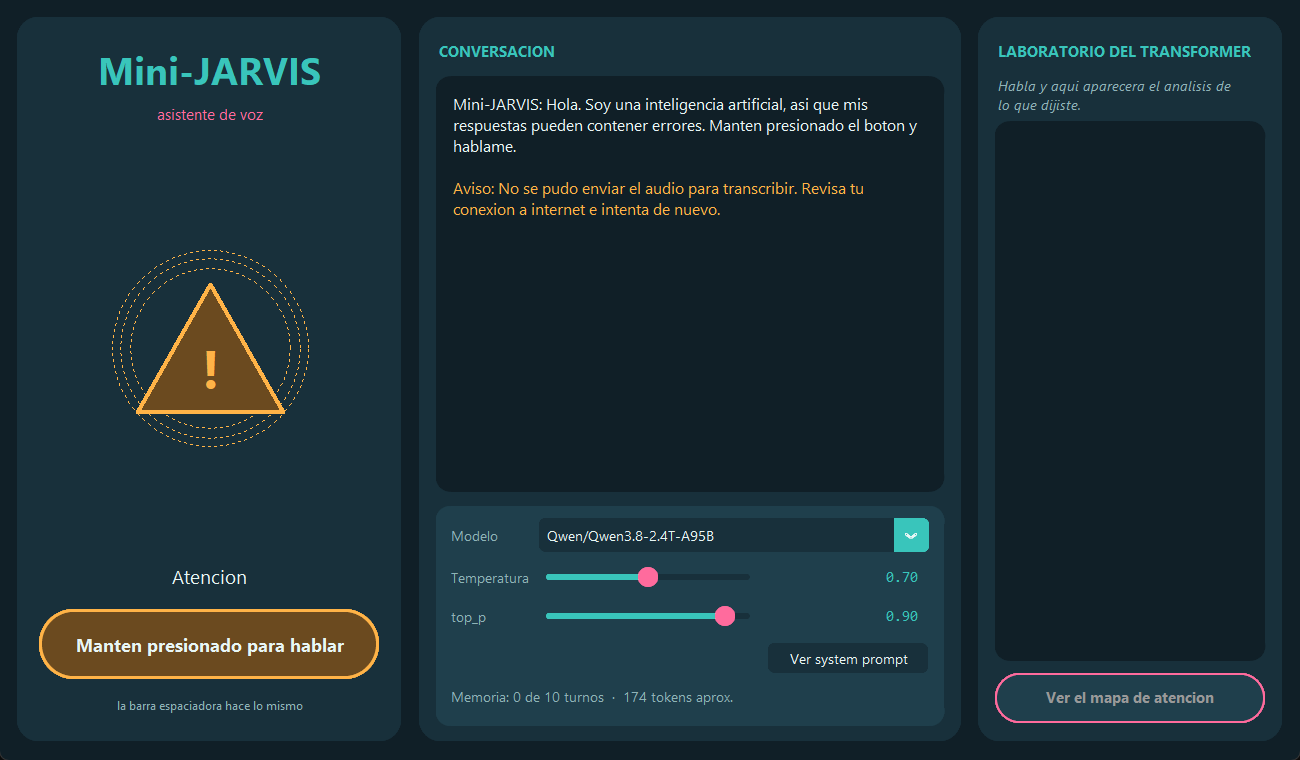
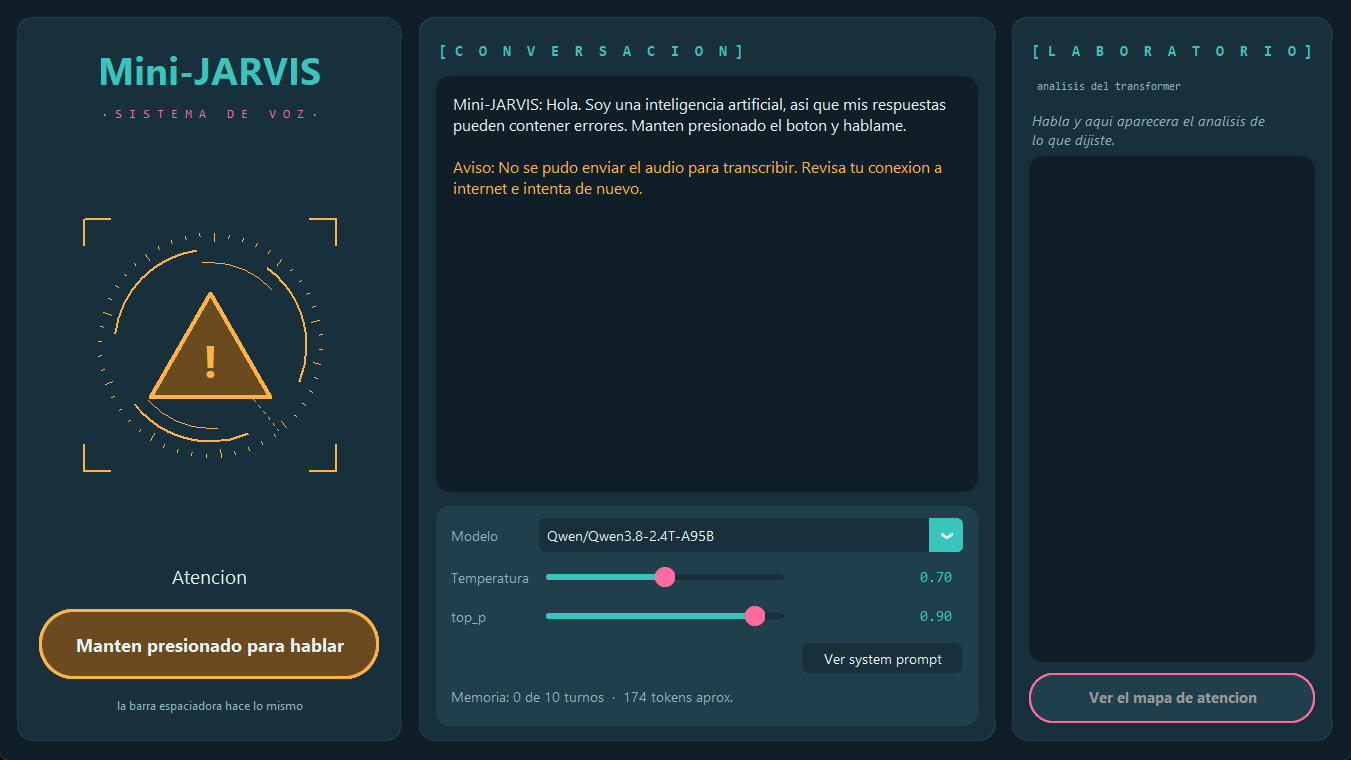
[T-19] la ventana pasa a ser un HUD, que es lo que pide el enunciado
La duena llevaba tres mensajes diciendo que el diseno era feo y anticuado. Tenia razon
por un motivo que yo no habia mirado: la seccion 5.2 del enunciado pone "interfaz
visual tipo HUD (animaciones, ondas de audio, efectos inspirados en la pelicula)" entre
los valores agregados, y el criterio del 15 % exige que la interfaz "refuerce la
identidad Jarvis".

Se habia disenado contra lo que ella pidio -tematica turquesa y rosa- sin contrastarlo
contra lo que la califica. Los colores se quedan, que son suyos; la FORMA pasa a ser un
HUD.

EL REACTOR

El modulo de estado crece de 210 a 264 px y deja de ser una figura suelta:

- Escuadras en las cuatro esquinas, como un visor.
- Anillo exterior con 48 marcas de dial, una larga cada cinco, girando despacio.
- Anillo medio: tres arcos girando en sentido contrario.
- Anillo interior: dos arcos finos y rapidos, otra vez al reves.
- Linea de barrido que gira como el radar de una pantalla de control.

Los sentidos y las velocidades son distintos a proposito: girando todo igual el
conjunto parece una pieza rigida, y es el desfase lo que da sensacion de mecanismo.

Todo es arte ORIGINAL generado por codigo. Sigue sin subirse una sola imagen de
terceros al repositorio publico: lo unico prestado son dos colores.

H-09 NO SE TOCA, Y LA SEPARACION QUEDA ESCRITA

El cromo es decoracion; la SENAL sigue siendo la figura del centro, con sus cuatro
formas y sus cuatro colores. Esta dicho en el docstring de _dibujar_estado para que
[…]

diff --git a/gui/desktop_app.py b/gui/desktop_app.py
@@ -67,13 +67,13 @@ from core.orchestrator import Estado, TipoEvento
 
 TITULO = "Mini-JARVIS"
 
-ANCHO_VENTANA = 1040          # dos columnas: conversacion y laboratorio
+ANCHO_VENTANA = 1120          # tres columnas: reactor, conversacion y laboratorio
 ALTO_VENTANA = 720
 FRACCION_MAXIMA_DE_PANTALLA = 0.88
 
 MILIS_ANTIRREBOTE_ESPACIO = 60
 
-LADO_LIENZO = 210             # el modulo de estado, mas grande que antes (T-19)
+LADO_LIENZO = 264             # el reactor HUD: tres anillos, marcas y barrido
 MILIS_ANIMACION = 90
 
 LEYENDA_POR_ESTADO = {
@@ -159,7 +159,7 @@ class AplicacionMiniJarvis(customtkinter.CTk):
         # de descarte hacia crecer la columna central y la del laboratorio se quedaba
         # con el titulo y el boton cortados. Se vio abriendo la ventana con la memoria
         # llena, no leyendo el codigo.
-        self.grid_columnconfigure(0, weight=0, minsize=300)  # izquierda: estado
+        self.grid_columnconfigure(0, weight=0, minsize=336)  # izquierda: el reactor HUD
         self.grid_columnconfigure(1, weight=3, minsize=380)  # centro: conversacion
         self.grid_columnconfigure(2, weight=2, minsize=330)  # derecha: laboratorio
         self.grid_rowconfigure(0, weight=1)
@@ -182,7 +182,8 @@ class AplicacionMiniJarvis(customtkinter.CTk):
     # --- Columna izquierda: el modulo de estado, ahora grande (T-19) ---------
 
     def _construir_columna_estado(self) -> None:
-        marco = customtkinter.CTkFrame(self, fg_color=PALETA["superficie"], corner_radius=18)
+        marco = customtkinter.CTkFrame(self, fg_color=PALETA["superficie"], corner_radius=14,
+                                       border_width=1, border_color=PALETA["superficie_alta"])
         marco.grid(row=0, column=0, sticky="nsew", padx=(14, 7), pady=14)
         marco.grid_columnconfigure(0, weight=1)
         marco.grid_rowconfigure(2, weight=1)
@@ -193,9 +194,9 @@ class AplicacionMiniJarvis(customtkinter.CTk):
         ).grid(row=0, column=0, pady=(22, 2))
 
         customtkinter.CTkLabel(
-            marco, text="asistente de voz", text_color=PALETA["rosa"],
-            font=("Segoe UI", 12),
-        ).grid(row=1, column=0, pady=(0, 10))
+            marco, text="· S I S T E M A   D E   V O Z ·", text_color=PALETA["rosa"],
+            font=("Consolas", 10),
+        ).grid(row=1, column=0, pady=(0, 6))
 
         self._lienzo = tkinter.Canvas(
             marco, width=LADO_LIENZO, height=LADO_LIENZO,
@@ -227,7 +228,8 @@ class AplicacionMiniJarvis(customtkinter.CTk):
     # --- Columna central: conversacion + controles de sustentacion (T-14) ----
 
     def _construir_columna_conversacion(self) -> None:
-        marco = customtkinter.CTkFrame(self, fg_color=PALETA["superficie"], corner_radius=18)
+        marco = customtkinter.CTkFrame(self, fg_color=PALETA["superficie"], corner_radius=14,
+                                       border_width=1, border_color=PALETA["superficie_alta"])
         marco.grid(row=0, column=1, sticky="nsew", padx=7, pady=14)
         marco.grid_columnconfigure(0, weight=1)
         marco.grid_rowconfigure(1, weight=1)
@@ -343,13 +345,22 @@ class AplicacionMiniJarvis(customtkinter.CTk):
         reimplementa nada: si el laboratorio y esta columna dijeran cosas distintas,
         una de las dos estaria mintiendo en la sustentacion.
         """
-        marco = customtkinter.CTkFrame(self, fg_color=PALETA["superficie"], corner_radius=18)
+        marco = customtkinter.CTkFrame(self, fg_color=PALETA["superficie"], corner_radius=14,
+                                       border_width=1, border_color=PALETA["superficie_alta"])
         marco.grid(row=0, column=2, sticky="nsew", padx=(7, 14), pady=14)
         marco.grid_columnconfigure(0, weight=1)
         marco.grid_rowconfigure(2, weight=1)
 
-        self._encabezado(marco, "Laboratorio del Transformer").grid(
-            row=0, column=0, sticky="w", padx=16, pady=(14, 6))
+        # Titulo y subtitulo van en su PROPIO contenedor apilado. Ponerlos los dos en
+        # la misma celda del grid los superpone: se vio en pantalla, con el subtitulo
+        # escrito encima del titulo.
+        cabecera = customtkinter.CTkFrame(marco, fg_color="transparent")
+        cabecera.grid(row=0, column=0, sticky="ew", padx=16, pady=(14, 6))
+        self._encabezado(cabecera, "Laboratorio").pack(anchor="w")
+        customtkinter.CTkLabel(
+            cabecera, text="analisis del transformer", text_color=PALETA["texto_tenue"],
+            font=("Consolas", 9),
+        ).pack(anchor="w", padx=(4, 0))
 
         # anchor y justify a la izquierda, y wraplength holgado respecto al ancho de
         # la columna: con el escalado de Windows al 133 % un wraplength de 280 se
@@ -379,9 +390,19 @@ class AplicacionMiniJarvis(customtkinter.CTk):
         self._boton_mapa.grid(row=3, column=0, sticky="ew", padx=14, pady=(0, 16))
 
     def _encabezado(self, contenedor, texto):
+        """Titulo de panel con corchetes y espaciado, al estilo de un panel de control.
+
+        Tipografia monoespaciada a proposito: es lo que distingue una lectura de
+        instrumento de una etiqueta de formulario, y es gratis.
+        """
+        # El espaciado entre letras casi triplica el ancho. Solo se aplica a titulos
+        # cortos: con uno largo se sale de la columna y se corta, que fue justo lo que
+        # paso la primera vez con "LABORATORIO DEL TRANSFORMER".
+        texto = texto.upper()
+        etiqueta = "  ".join(texto) if len(texto) <= 13 else texto
         return customtkinter.CTkLabel(
-            contenedor, text=texto.upper(), text_color=PALETA["turquesa"],
-            font=("Segoe UI", 12, "bold"),
+            contenedor, text=f"[ {etiqueta} ]", text_color=PALETA["turquesa"],
+            font=("Consolas", 12, "bold"),
         )
 
     # --- Controles de sustentacion: que hacen (T-14) -------------------------
@@ -783,6 +804,16 @@ class AplicacionMiniJarvis(customtkinter.CTk):
         self.after(MILIS_ANIMACION, self._animar)
 
     def _dibujar_estado(self) -> None:
+        """Pinta el reactor HUD entero: cromo alrededor, figura del estado en el centro.
+
+        EL CROMO Y LA SENAL SON COSAS DISTINTAS, y conviene no confundirlas al leer
+        esto. Los anillos, las marcas y el barrido son **decoracion**: dan el aspecto
+        de aparato encendido que pide la seccion 5.2 del enunciado ("interfaz visual
+        tipo HUD") y que el criterio del 15 % premia como refuerzo de la identidad
+        Jarvis. La **senal** sigue siendo la figura del centro, y sigue cumpliendo H-09:
+        cuatro formas distintas, cuatro colores distintos. Si manana hubiera que quitar
+        todo el cromo por rendimiento, la aplicacion seguiria siendo usable.
+        """
         lienzo = self._lienzo
         lienzo.delete("all")
 
@@ -790,8 +821,12 @@ class AplicacionMiniJarvis(customtkinter.CTk):
         borde = COLOR_BORDE_POR_ESTADO.get(self._estado.value, BORDE_REPOSO)
         centro = LADO_LIENZO / 2
 
-        self._dibujar_halo(lienzo, centro, borde)
+        # --- cromo ---
+        self._dibujar_marco_hud(lienzo, borde)
+        self._dibujar_anillos_hud(lienzo, centro, borde)
+        self._dibujar_barrido(lienzo, centro, borde)
 
+        # --- senal ---
         if self._estado is Estado.ESCUCHANDO:
             self._dibujar_circulo_con_pulso(lienzo, centro, color, borde)
         elif self._estado is Estado.PENSANDO:
@@ -803,60 +838,125 @@ class AplicacionMiniJarvis(customtkinter.CTk):
         else:
             self._dibujar_reposo(lienzo, centro, borde)
 
-    def _dibujar_halo(self, lienzo, centro, borde) -> None:
-        """Arte original: anillos concentricos tenues que giran despacio.
+    # --- Cromo del HUD ---------------------------------------------------------
 
-        Es lo unico "decorativo" de la ventana y esta hecho con codigo, no con una
-        imagen: el repositorio es publico y no se sube arte de terceros. Da la
-        sensacion de aparato encendido sin competir con la figura del estado, que es
-        la que comunica.
-        """
-        fase = self._paso_animacion / 30.0
-        for indice in range(3):
-            radio = 78 + indice * 9 + math.sin(fase + indice) * 3
-            lienzo.create_oval(
-                centro - radio, centro - radio, centro + radio, centro + radio,
-                outline=borde, width=1, dash=(2, 14),
+    def _dibujar_marco_hud(self, lienzo, borde) -> None:
+        """Cuatro escuadras en las esquinas, como una mira o un visor."""
+        largo, margen = 26, 6
+        lado = LADO_LIENZO
+        esquinas = (
+            ((margen, margen + largo), (margen, margen), (margen + largo, margen)),
+            ((lado - margen - largo, margen), (lado - margen, margen),
+             (lado - margen, margen + largo)),
+            ((margen, lado - margen - largo), (margen, lado - margen),
+             (margen + largo, lado - margen)),
+            ((lado - margen - largo, lado - margen), (lado - margen, lado - margen),
+             (lado - margen, lado - margen - largo)),
+        )
+        for puntos in esquinas:
+            lienzo.create_line(
+                *[c for punto in puntos for c in punto],
+                fill=borde, width=2, capstyle="projecting",
             )
+
+    def _dibujar_anillos_hud(self, lienzo, centro, borde) -> None:
+        """Tres anillos concentricos girando a distinta velocidad, con marcas de dial.
+
+        Todo esto es arte ORIGINAL generado por codigo. El repositorio es publico y no
+        se sube ninguna imagen de terceros; lo unico que se toma prestado son dos
+        colores, que no son propiedad de nadie.
+
+        Los anillos giran en sentidos alternos y a velocidades distintas a proposito:
+        con la misma velocidad el conjunto parece una sola pieza rigida, y es el
+        desfase entre ellos lo que da la sensacion de mecanismo vivo.
+        """
+        paso = self._paso_animacion
+
+        # Anillo exterior: marcas de dial, una larga cada cinco.
+        radio = LADO_LIENZO / 2 - 20
+        giro = paso * 0.6
+        for indice in range(48):
+            angulo = math.radians(indice * 7.5 + giro)
+            largo = 9 if indice % 5 == 0 else 4
+            cos_a, sen_a = math.cos(angulo), math.sin(angulo)
+            lienzo.create_line(
+                centro + cos_a * radio, centro + sen_a * radio,
+                centro + cos_a * (radio - largo), centro + sen_a * (radio - largo),
+                fill=borde, width=1,
+            )
+
+        # Anillo medio: tres arcos separados, girando al reves.
+        radio_medio = radio - 16
+        base = -paso * 1.4
+        for sector in range(3):
+            lienzo.create_arc(
+                centro - radio_medio, centro - radio_medio,
+                centro + radio_medio, centro + radio_medio,
+                start=base + sector * 120, extent=76,
+                style="arc", outline=borde, width=2,
+            )
+
+        # Anillo interior: dos arcos finos y rapidos, en el otro sentido.
+        radio_interior = radio_medio - 13
+        base = paso * 2.6
+        for sector in range(2):
+            lienzo.create_arc(
+                centro - radio_interior, centro - radio_interior,
+                centro + radio_interior, centro + radio_interior,
+                start=base + sector * 180, extent=54,
+                style="arc", outline=borde, width=1,
+            )
+
+    def _dibujar_barrido(self, lienzo, centro, borde) -> None:
+        """Linea de barrido que gira, como el radar de una pantalla de control."""
+        angulo = math.radians(self._paso_animacion * 3.2)
+        radio = LADO_LIENZO / 2 - 22
+        lienzo.create_line(
+            centro, centro,
+            centro + math.cos(angulo) * radio, centro + math.sin(angulo) * radio,
+            fill=borde, width=1, dash=(3, 6),
+        )
+
+    # --- La senal: cuatro formas propias, mas la de reposo (H-09) --------------
 
     def _dibujar_circulo_con_pulso(self, lienzo, centro, color, borde) -> None:
         """ESCUCHANDO: circulo lleno que late despacio, como un microfono abierto."""
         fase = self._paso_animacion % 20
-        radio = 52 + (fase if fase <= 10 else 20 - fase) * 1.6
+        radio = 40 + (fase if fase <= 10 else 20 - fase) * 1.4
         lienzo.create_oval(
             centro - radio, centro - radio, centro + radio, centro + radio,
-            fill=color, outline=borde, width=6,
+            fill=color, outline=borde, width=5,
         )
 
     def _dibujar_puntos(self, lienzo, centro, color, borde) -> None:
         """PENSANDO: tres puntos que se encienden en secuencia, como quien delibera."""
         encendido = (self._paso_animacion // 4) % 3
         for indice in range(3):
-            x = centro + (indice - 1) * 46
-            radio = 23 if indice == encendido else 15
+            x = centro + (indice - 1) * 38
+            radio = 19 if indice == encendido else 12
             lienzo.create_oval(
                 x - radio, centro - radio, x + radio, centro + radio,
                 fill=color if indice == encendido else PALETA["superficie"],
-                outline=borde, width=5,
+                outline=borde, width=4,
             )
 
     def _dibujar_onda(self, lienzo, centro, color, borde) -> None:
         """RESPONDIENDO: barras de distinta altura, la forma clasica de suena audio."""
-        alturas = [30, 54, 76, 54, 30]
+        alturas = [26, 46, 66, 46, 26]
         desfase = self._paso_animacion // 2
         for indice, altura_base in enumerate(alturas):
             # Cada barra respira con un desfase distinto: la onda parece moverse.
             oscilacion = ((desfase + indice * 2) % 8) * 4
             altura = altura_base + oscilacion - 16
-            x = centro + (indice - 2) * 32
+            x = centro + (indice - 2) * 27
             lienzo.create_rectangle(
-                x - 11, centro - altura / 2, x + 11, centro + altura / 2,
-                fill=color, outline=borde, width=4,
+                x - 9, centro - altura / 2, x + 9, centro + altura / 2,
+                fill=color, outline=borde, width=3,
             )
 
     def _dibujar_triangulo(self, lienzo, centro, color, borde) -> None:
         """ATENCION: triangulo con borde, la forma universal de mira esto."""
-        lado = 146
+        lado = 120
         altura = lado * 0.87
         lienzo.create_polygon(
             centro, centro - altura / 2,
@@ -865,7 +965,7 @@ class AplicacionMiniJarvis(customtkinter.CTk):
             fill=color, outline=borde, width=4,
         )
         lienzo.create_text(
-            centro, centro + 18, text="!", fill=borde, font=("Segoe UI", 40, "bold"),
+            centro, centro + 14, text="!", fill=borde, font=("Segoe UI", 34, "bold"),
         )
 
     def _dibujar_reposo(self, lienzo, centro, borde) -> None:
@@ -876,7 +976,7 @@ class AplicacionMiniJarvis(customtkinter.CTk):
         el tamano menor y la ausencia de pulso hacen que se distingan sin depender del
         color.
         """
-        radio = 44
+        radio = 36
         lienzo.create_oval(
             centro - radio, centro - radio, centro + radio, centro + radio,
             fill=PALETA["superficie_alta"], outline=borde, width=3, dash=(6, 5),
